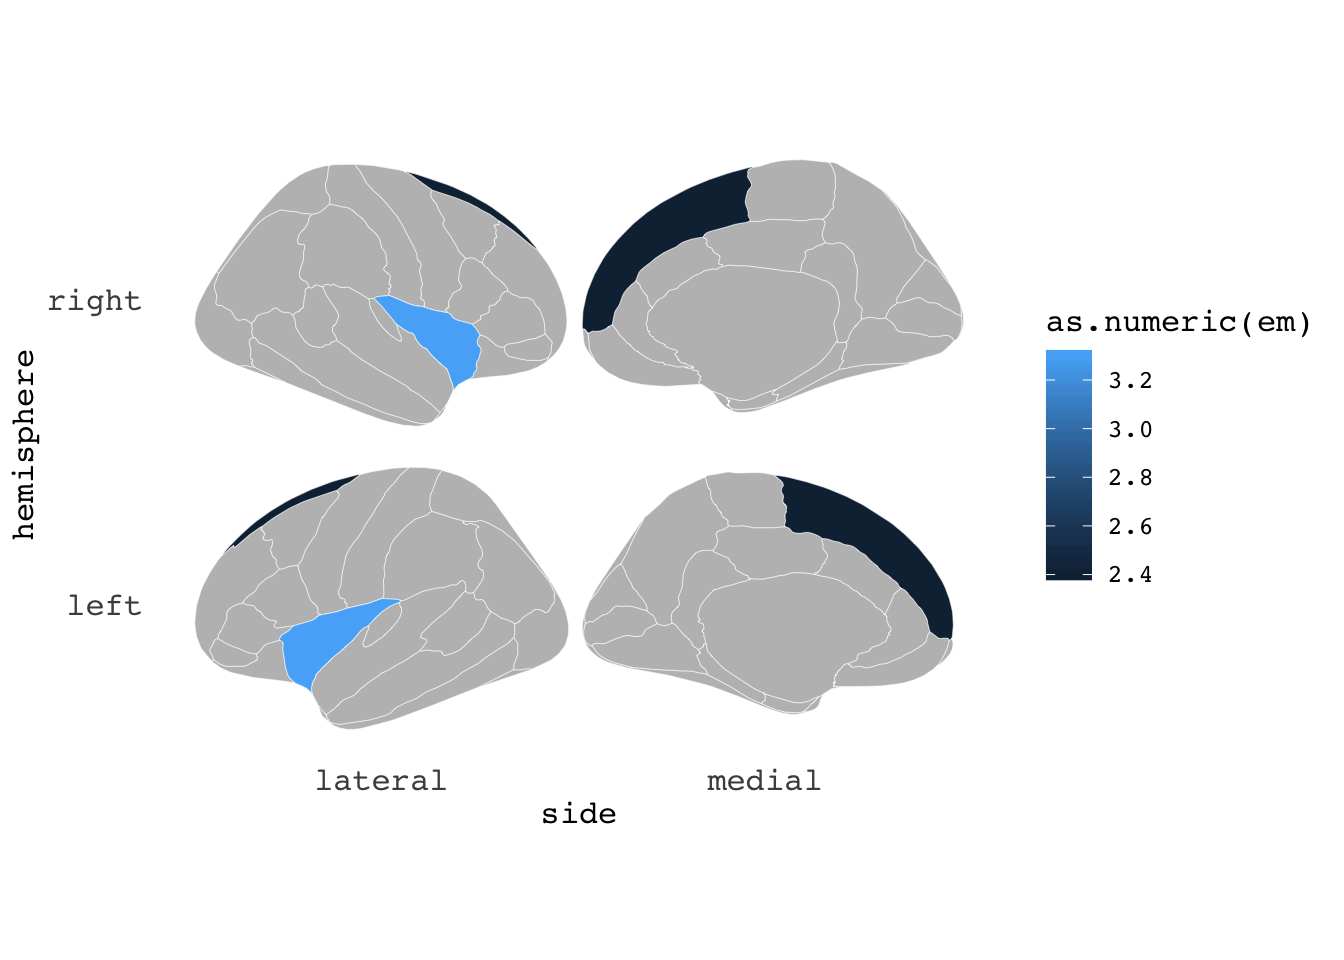
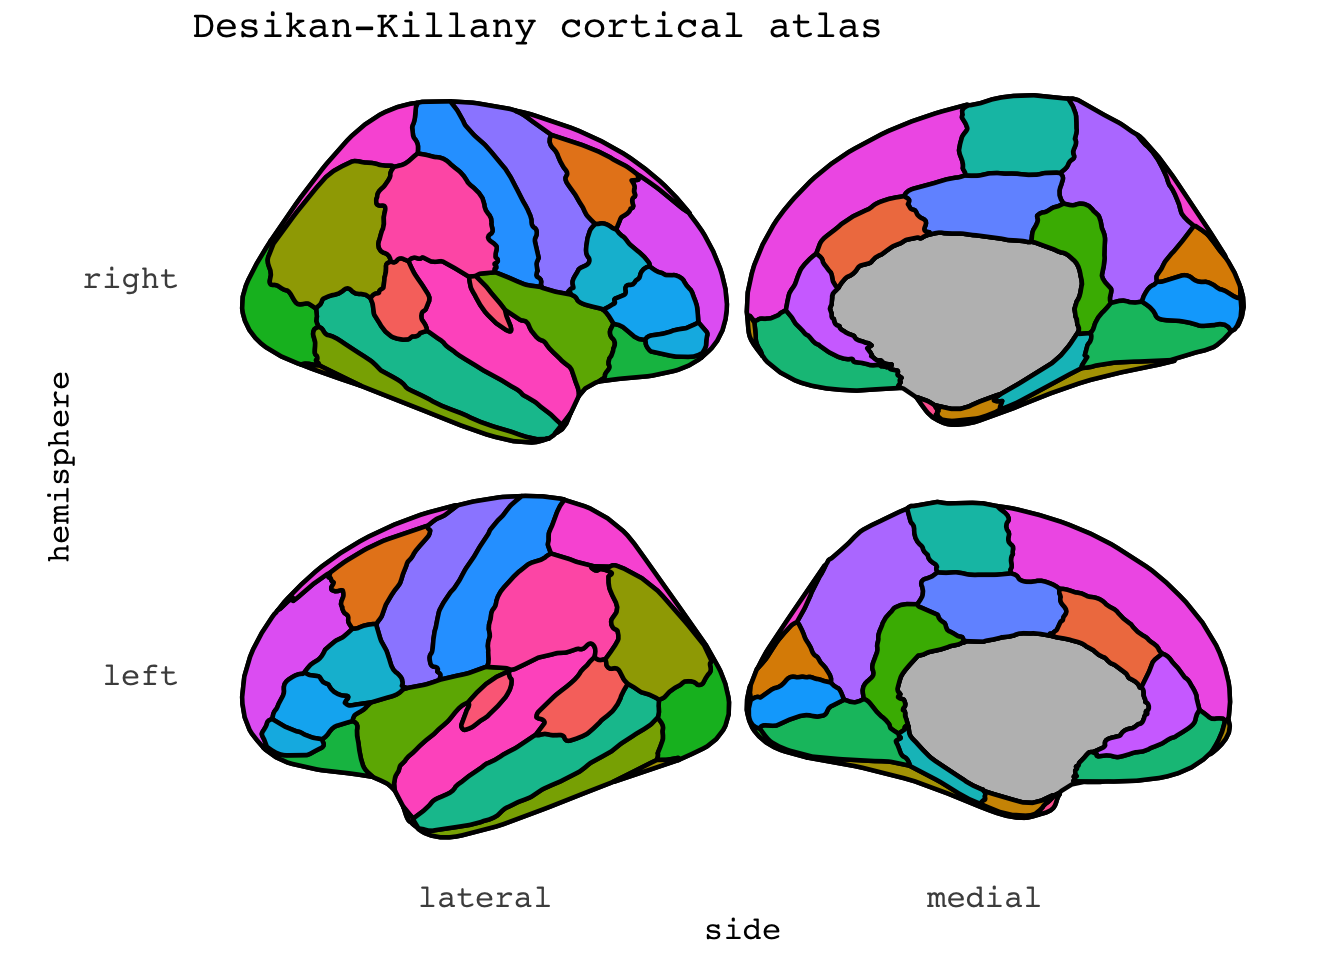
new post fixes

diff --git a/content/blog/2018-08-24-introducing-the-ggbrain-r-package-for-brain-segmentations.html b/content/blog/2018-08-24-introducing-the-ggbrain-r-package-for-brain-segmentations.html
@@ -9,8 +9,8 @@ categories:
 tags:
   - Plots
   - Packages
-featured_image: '/blog/2018-08-24-introducing-the-ggbrain-r-package-for-brain-segmentations/figure-html/featured-1.png'
----
+featured_image: '/blog/2018-08-24-introducing-the-ggbrain-r-package-for-brain-segmentations_files/figure-html/featured-1.png'
+--- 
 
 
 
@@ -35,26 +35,29 @@ ggbrain()</code></pre>
 <p><img src="/blog/2018-08-24-introducing-the-ggbrain-r-package-for-brain-segmentations_files/figure-html/unnamed-chunk-3-1.png" width="672" /></p>
 <p>Of course, this grey thing isn’t particularly fun to look at, so we can do some colourings. The atlases all have a variable called <code>area</code>, which will colour different sections in meaningful ways. You do this with ggplot <code>aes</code> mapping.</p>
 <pre class="r"><code>ggbrain(mapping=aes(fill=area), position=&quot;stacked&quot;)</code></pre>
+<p><img src="/blog/2018-08-24-introducing-the-ggbrain-r-package-for-brain-segmentations_files/figure-html/unnamed-chunk-4-1.png" width="672" /></p>
+<p>But there are so many labels! We can’t fit them all for this atlas. We can turn them off!.</p>
+<pre class="r"><code>ggbrain(mapping=aes(fill=area), position=&quot;stacked&quot;, show.legend = F) +
+  ggtitle(&quot;Desikan-Killany cortical atlas&quot;)</code></pre>
 <p><img src="/blog/2018-08-24-introducing-the-ggbrain-r-package-for-brain-segmentations_files/figure-html/featured-1.png" width="672" /></p>
 <p>The package currently has three atlases available. The default Desikan-Killany cortical atlas as shown above, and the Automatic subcortical segmentation (aseg), and the Yeo 2011 7 resting-state networks.</p>
-<pre class="r"><code>ggbrain(atlas=&quot;aseg&quot;,mapping=aes(fill=area),) +
+<pre class="r"><code>ggbrain(atlas=&quot;aseg&quot;,mapping=aes(fill=area)) +
   ggtitle(&quot;Automatic subcortical segmentation&quot;)</code></pre>
-<p><img src="/blog/2018-08-24-introducing-the-ggbrain-r-package-for-brain-segmentations_files/figure-html/unnamed-chunk-4-1.png" width="672" /></p>
+<p><img src="/blog/2018-08-24-introducing-the-ggbrain-r-package-for-brain-segmentations_files/figure-html/unnamed-chunk-5-1.png" width="672" /></p>
 <pre class="r"><code>ggbrain(atlas=&quot;yeo7&quot;,position=&quot;stacked&quot;,mapping=aes(fill=area),) +
   ggtitle(&quot;Yeo 7 resting-state networks&quot;)</code></pre>
-<p><img src="/blog/2018-08-24-introducing-the-ggbrain-r-package-for-brain-segmentations_files/figure-html/unnamed-chunk-4-2.png" width="672" /></p>
+<p><img src="/blog/2018-08-24-introducing-the-ggbrain-r-package-for-brain-segmentations_files/figure-html/unnamed-chunk-5-2.png" width="672" /></p>
 <p>We are working on adding the Yeo 2011 17 resting-state networks, in addition to a sagittal view of the aseg atlas. We work on that when we need other more “relaxing” tasks than responding to reviewers every whims.</p>
 <p>Since this is a ggplot-based function, there are lots of ways you can manipulate how it looks. For instance by using different themes. The package comes with three themes: <code>theme_brain</code>, <code>theme_darkbrain</code>, and <code>theme_custombrain</code>, the latter is really just a simple convenience theme for those who don’t want to or know how to customize simple things like the plot background and text colour.</p>
-<pre class="r"><code>ggbrain(mapping=aes(fill=area), position=&quot;stacked&quot;) +
+<pre class="r"><code>ggbrain(mapping=aes(fill=area), position=&quot;stacked&quot;,show.legend = F) +
   ggtitle(&quot;Desikan-Killany cortical atlas&quot;) +
   theme_darkbrain()</code></pre>
-<p><img src="/blog/2018-08-24-introducing-the-ggbrain-r-package-for-brain-segmentations_files/figure-html/unnamed-chunk-5-1.png" width="672" /></p>
+<p><img src="/blog/2018-08-24-introducing-the-ggbrain-r-package-for-brain-segmentations_files/figure-html/unnamed-chunk-6-1.png" width="672" /></p>
 <p>There are several extra options you can add, like increasing the size of the contouring line and its colour</p>
 <pre class="r"><code>ggbrain(mapping=aes(fill=area), position=&quot;stacked&quot;,
-        colour=&quot;black&quot;,size=.8) +
-  ggtitle(&quot;Desikan-Killany cortical atlas&quot;) +
-  theme(legend.position=&quot;bottom&quot;)</code></pre>
-<p><img src="/blog/2018-08-24-introducing-the-ggbrain-r-package-for-brain-segmentations_files/figure-html/unnamed-chunk-6-1.png" width="672" /></p>
+        colour=&quot;black&quot;,size=.8,show.legend = F) +
+  ggtitle(&quot;Desikan-Killany cortical atlas&quot;)</code></pre>
+<p><img src="/blog/2018-08-24-introducing-the-ggbrain-r-package-for-brain-segmentations_files/figure-html/unnamed-chunk-7-1.png" width="672" /></p>
 <p>wowsa, that’s a bit too many labels. But It helps you get oriented. Now, in most cases, we think people will use this to plot some results. Like p-values, or estimated means. To do this, you can provide the function with some data. Importantly, the data must include some variables that will match the data to the atlas data.frame for merging.</p>
 <p>Lets for instance say you have found that the thickness of the insula and superior frontal cortex increase with age, and you want to plot the estimated means highlighting those two areas only.</p>
 <pre class="r"><code>results = data.frame(cbind(area=c(&quot;superior frontal&quot;,&quot;insula&quot;),em=c(2.4,3.3)),
@@ -62,7 +65,7 @@ ggbrain()</code></pre>
 
 results %&gt;% 
   ggbrain(mapping=aes(fill=as.numeric(em)), position=&quot;stacked&quot;) </code></pre>
-<p><img src="/blog/2018-08-24-introducing-the-ggbrain-r-package-for-brain-segmentations_files/figure-html/unnamed-chunk-7-1.png" width="672" /></p>
+<p><img src="/blog/2018-08-24-introducing-the-ggbrain-r-package-for-brain-segmentations_files/figure-html/unnamed-chunk-8-1.png" width="672" /></p>
 <p>Neat-o. But maybe the results only pertained to the right insula, and left superior frontal? Just add a <code>hemi</code> variable indicating which hemisphere the results belong to.</p>
 <pre class="r"><code>results = data.frame(cbind(area=c(&quot;superior frontal&quot;,&quot;insula&quot;),
                            em=c(2.4,3.3),
@@ -71,7 +74,7 @@ results %&gt;%
 
 results %&gt;% 
   ggbrain(mapping=aes(fill=as.numeric(em)), position=&quot;stacked&quot;) </code></pre>
-<p><img src="/blog/2018-08-24-introducing-the-ggbrain-r-package-for-brain-segmentations_files/figure-html/unnamed-chunk-8-1.png" width="672" /></p>
+<p><img src="/blog/2018-08-24-introducing-the-ggbrain-r-package-for-brain-segmentations_files/figure-html/unnamed-chunk-9-1.png" width="672" /></p>
 <p>If you keep your data in tall/long format, as ggplot likes it, you can also plot results from different groups using facets.</p>
 <pre class="r"><code>results = data.frame(cbind(area=c(&quot;superior frontal&quot;,&quot;insula&quot;, &quot;par orbitalis&quot;,&quot;pre central&quot;),
                            em=c(2.4,3.3,1.2,2.6),
@@ -82,5 +85,5 @@ results %&gt;%
 results %&gt;% 
   ggbrain(mapping=aes(fill=as.numeric(em)), position=&quot;stacked&quot;) +
   facet_wrap(~AgeGroup,ncol=1)</code></pre>
-<p><img src="/blog/2018-08-24-introducing-the-ggbrain-r-package-for-brain-segmentations_files/figure-html/unnamed-chunk-9-1.png" width="672" /></p>
+<p><img src="/blog/2018-08-24-introducing-the-ggbrain-r-package-for-brain-segmentations_files/figure-html/unnamed-chunk-10-1.png" width="672" /></p>
 <p>That’s all for now. Or, there are more options, but that’s what I’ll be going through today. As mentioned, we are very new at making packages, and I’m sure there are many ways to make this package more efficient. Drop us a line or pull request if you feel like contributing!</p>

diff --git a/public/blog/introducing-the-ggbrain-r-package-for-brain-segmentations/index.html b/public/blog/introducing-the-ggbrain-r-package-for-brain-segmentations/index.html
@@ -210,26 +210,29 @@ ggbrain()</code></pre>
 <p><img src="/blog/2018-08-24-introducing-the-ggbrain-r-package-for-brain-segmentations_files/figure-html/unnamed-chunk-3-1.png" width="672" /></p>
 <p>Of course, this grey thing isn’t particularly fun to look at, so we can do some colourings. The atlases all have a variable called <code>area</code>, which will colour different sections in meaningful ways. You do this with ggplot <code>aes</code> mapping.</p>
 <pre class="r"><code>ggbrain(mapping=aes(fill=area), position=&quot;stacked&quot;)</code></pre>
+<p><img src="/blog/2018-08-24-introducing-the-ggbrain-r-package-for-brain-segmentations_files/figure-html/unnamed-chunk-4-1.png" width="672" /></p>
+<p>But there are so many labels! We can’t fit them all for this atlas. We can turn them off!.</p>
+<pre class="r"><code>ggbrain(mapping=aes(fill=area), position=&quot;stacked&quot;, show.legend = F) +
+  ggtitle(&quot;Desikan-Killany cortical atlas&quot;)</code></pre>
 <p><img src="/blog/2018-08-24-introducing-the-ggbrain-r-package-for-brain-segmentations_files/figure-html/featured-1.png" width="672" /></p>
 <p>The package currently has three atlases available. The default Desikan-Killany cortical atlas as shown above, and the Automatic subcortical segmentation (aseg), and the Yeo 2011 7 resting-state networks.</p>
-<pre class="r"><code>ggbrain(atlas=&quot;aseg&quot;,mapping=aes(fill=area),) +
+<pre class="r"><code>ggbrain(atlas=&quot;aseg&quot;,mapping=aes(fill=area)) +
   ggtitle(&quot;Automatic subcortical segmentation&quot;)</code></pre>
-<p><img src="/blog/2018-08-24-introducing-the-ggbrain-r-package-for-brain-segmentations_files/figure-html/unnamed-chunk-4-1.png" width="672" /></p>
+<p><img src="/blog/2018-08-24-introducing-the-ggbrain-r-package-for-brain-segmentations_files/figure-html/unnamed-chunk-5-1.png" width="672" /></p>
 <pre class="r"><code>ggbrain(atlas=&quot;yeo7&quot;,position=&quot;stacked&quot;,mapping=aes(fill=area),) +
   ggtitle(&quot;Yeo 7 resting-state networks&quot;)</code></pre>
-<p><img src="/blog/2018-08-24-introducing-the-ggbrain-r-package-for-brain-segmentations_files/figure-html/unnamed-chunk-4-2.png" width="672" /></p>
+<p><img src="/blog/2018-08-24-introducing-the-ggbrain-r-package-for-brain-segmentations_files/figure-html/unnamed-chunk-5-2.png" width="672" /></p>
 <p>We are working on adding the Yeo 2011 17 resting-state networks, in addition to a sagittal view of the aseg atlas. We work on that when we need other more “relaxing” tasks than responding to reviewers every whims.</p>
 <p>Since this is a ggplot-based function, there are lots of ways you can manipulate how it looks. For instance by using different themes. The package comes with three themes: <code>theme_brain</code>, <code>theme_darkbrain</code>, and <code>theme_custombrain</code>, the latter is really just a simple convenience theme for those who don’t want to or know how to customize simple things like the plot background and text colour.</p>
-<pre class="r"><code>ggbrain(mapping=aes(fill=area), position=&quot;stacked&quot;) +
+<pre class="r"><code>ggbrain(mapping=aes(fill=area), position=&quot;stacked&quot;,show.legend = F) +
   ggtitle(&quot;Desikan-Killany cortical atlas&quot;) +
   theme_darkbrain()</code></pre>
-<p><img src="/blog/2018-08-24-introducing-the-ggbrain-r-package-for-brain-segmentations_files/figure-html/unnamed-chunk-5-1.png" width="672" /></p>
+<p><img src="/blog/2018-08-24-introducing-the-ggbrain-r-package-for-brain-segmentations_files/figure-html/unnamed-chunk-6-1.png" width="672" /></p>
 <p>There are several extra options you can add, like increasing the size of the contouring line and its colour</p>
 <pre class="r"><code>ggbrain(mapping=aes(fill=area), position=&quot;stacked&quot;,
-        colour=&quot;black&quot;,size=.8) +
-  ggtitle(&quot;Desikan-Killany cortical atlas&quot;) +
-  theme(legend.position=&quot;bottom&quot;)</code></pre>
-<p><img src="/blog/2018-08-24-introducing-the-ggbrain-r-package-for-brain-segmentations_files/figure-html/unnamed-chunk-6-1.png" width="672" /></p>
+        colour=&quot;black&quot;,size=.8,show.legend = F) +
+  ggtitle(&quot;Desikan-Killany cortical atlas&quot;)</code></pre>
+<p><img src="/blog/2018-08-24-introducing-the-ggbrain-r-package-for-brain-segmentations_files/figure-html/unnamed-chunk-7-1.png" width="672" /></p>
 <p>wowsa, that’s a bit too many labels. But It helps you get oriented. Now, in most cases, we think people will use this to plot some results. Like p-values, or estimated means. To do this, you can provide the function with some data. Importantly, the data must include some variables that will match the data to the atlas data.frame for merging.</p>
 <p>Lets for instance say you have found that the thickness of the insula and superior frontal cortex increase with age, and you want to plot the estimated means highlighting those two areas only.</p>
 <pre class="r"><code>results = data.frame(cbind(area=c(&quot;superior frontal&quot;,&quot;insula&quot;),em=c(2.4,3.3)),
@@ -237,7 +240,7 @@ ggbrain()</code></pre>
 
 results %&gt;% 
   ggbrain(mapping=aes(fill=as.numeric(em)), position=&quot;stacked&quot;) </code></pre>
-<p><img src="/blog/2018-08-24-introducing-the-ggbrain-r-package-for-brain-segmentations_files/figure-html/unnamed-chunk-7-1.png" width="672" /></p>
+<p><img src="/blog/2018-08-24-introducing-the-ggbrain-r-package-for-brain-segmentations_files/figure-html/unnamed-chunk-8-1.png" width="672" /></p>
 <p>Neat-o. But maybe the results only pertained to the right insula, and left superior frontal? Just add a <code>hemi</code> variable indicating which hemisphere the results belong to.</p>
 <pre class="r"><code>results = data.frame(cbind(area=c(&quot;superior frontal&quot;,&quot;insula&quot;),
                            em=c(2.4,3.3),
@@ -246,7 +249,7 @@ results %&gt;%
 
 results %&gt;% 
   ggbrain(mapping=aes(fill=as.numeric(em)), position=&quot;stacked&quot;) </code></pre>
-<p><img src="/blog/2018-08-24-introducing-the-ggbrain-r-package-for-brain-segmentations_files/figure-html/unnamed-chunk-8-1.png" width="672" /></p>
+<p><img src="/blog/2018-08-24-introducing-the-ggbrain-r-package-for-brain-segmentations_files/figure-html/unnamed-chunk-9-1.png" width="672" /></p>
 <p>If you keep your data in tall/long format, as ggplot likes it, you can also plot results from different groups using facets.</p>
 <pre class="r"><code>results = data.frame(cbind(area=c(&quot;superior frontal&quot;,&quot;insula&quot;, &quot;par orbitalis&quot;,&quot;pre central&quot;),
                            em=c(2.4,3.3,1.2,2.6),
@@ -257,7 +260,7 @@ results %&gt;%
 results %&gt;% 
   ggbrain(mapping=aes(fill=as.numeric(em)), position=&quot;stacked&quot;) +
   facet_wrap(~AgeGroup,ncol=1)</code></pre>
-<p><img src="/blog/2018-08-24-introducing-the-ggbrain-r-package-for-brain-segmentations_files/figure-html/unnamed-chunk-9-1.png" width="672" /></p>
+<p><img src="/blog/2018-08-24-introducing-the-ggbrain-r-package-for-brain-segmentations_files/figure-html/unnamed-chunk-10-1.png" width="672" /></p>
 <p>That’s all for now. Or, there are more options, but that’s what I’ll be going through today. As mentioned, we are very new at making packages, and I’m sure there are many ways to make this package more efficient. Drop us a line or pull request if you feel like contributing!</p>
 
     </div>

diff --git a/public/blog/index.html b/public/blog/index.html
@@ -162,7 +162,7 @@ ga('send', 'pageview');
 
         <div class="columns">
               <div class="column is-one-third has-text-centered">
-                <img src="/blog/2018-08-24-introducing-the-ggbrain-r-package-for-brain-segmentations/figure-html/featured-1.png">
+                <img src="/blog/2018-08-24-introducing-the-ggbrain-r-package-for-brain-segmentations_files/figure-html/featured-1.png">
               </div>
             <div class="column markdown">
                 <i>Aug 24, 2018</i> <br>
@@ -222,7 +222,7 @@ A while a go, my co-worker Didac, approached me with an idea for creating the po
         
             
                 <li class="post-item" style="text-align: center center;">
-  <div> <img src="/blog/2018-08-24-introducing-the-ggbrain-r-package-for-brain-segmentations/figure-html/featured-1.png" height="100" width="100">
+  <div> <img src="/blog/2018-08-24-introducing-the-ggbrain-r-package-for-brain-segmentations_files/figure-html/featured-1.png" height="100" width="100">
   <span><a href="/blog/introducing-the-ggbrain-r-package-for-brain-segmentations/">Introducing the ggbrain R-package for brain segmentations</a></span> - <span>Aug 24, 2018</span>
   </div>
 </li>

diff --git a/public/index.html b/public/index.html
@@ -311,7 +311,7 @@ ga('send', 'pageview');
 
         <div class="columns">
               <div class="column is-one-third has-text-centered">
-                <img src="/blog/2018-08-24-introducing-the-ggbrain-r-package-for-brain-segmentations/figure-html/featured-1.png">
+                <img src="/blog/2018-08-24-introducing-the-ggbrain-r-package-for-brain-segmentations_files/figure-html/featured-1.png">
               </div>
             <div class="column markdown">
                 <i>Aug 24, 2018</i> <br>
